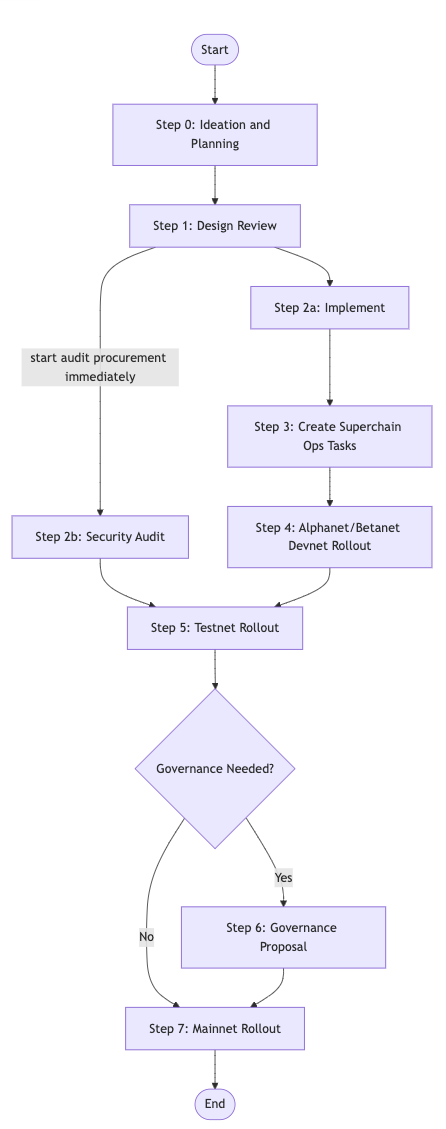
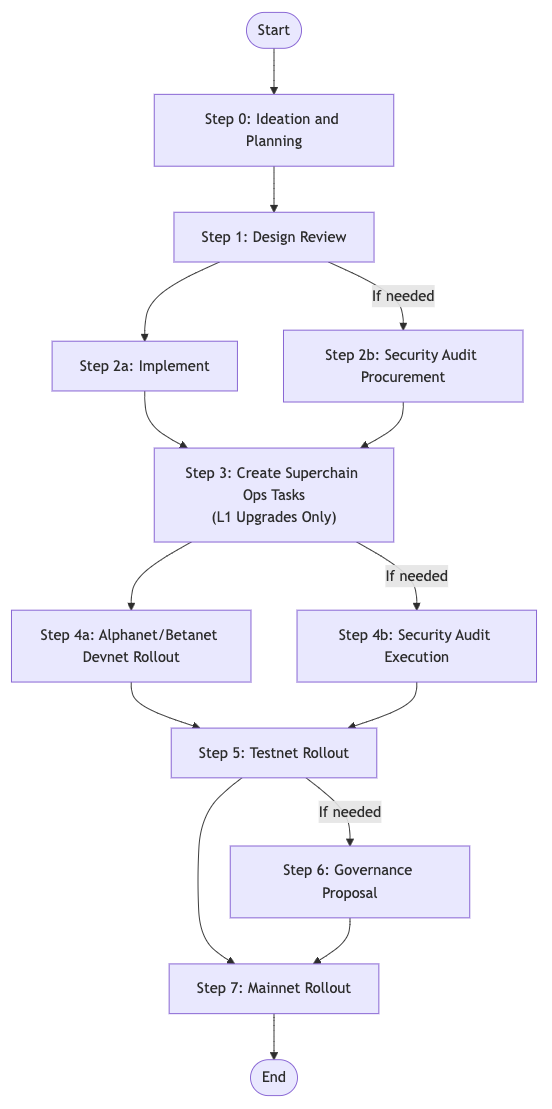
feat: specify audit procurement and execution in the sdlc

diff --git a/src/sdlc.md b/src/sdlc.md
@@ -178,7 +178,7 @@ At this stage, you can start writing your code. Make sure you follow these stand
     - When useful, changes should be formally verified with Kontrol.
 
 
-## Step 2b: Security Audit (If Needed)
+## Step 2b: Security Audit Procurement (If Needed)
 
 The FMA results will be used to determine the audit requirements for the change. The [process to procure and execute an audit](./audits.md) should be started in parallel with the implementation if it is needed.
 
@@ -197,10 +197,14 @@ This section is under construction. Contact @Matt Solomon for questions regardin
 
 If your change modifies L1 smart contracts, you’ll need a `superchain-ops` playbook to execute the multisig transactions with the Security Council.
 
-## Step 4: Alphanet/Betanet Devnet Rollout
+## Step 4a: Alphanet/Betanet Devnet Rollout
 
 Next, it’s time to roll out to the Alphanet, then the Betanet. See the [release process](release-process.md) for 
 more details.
+
+## Step 4b: Audit execution
+
+In parallel to the alphanet/betanet rollout, the [audit should be executed](./audits.md).
 
 ## Step 5: Testnet Rollout
 
